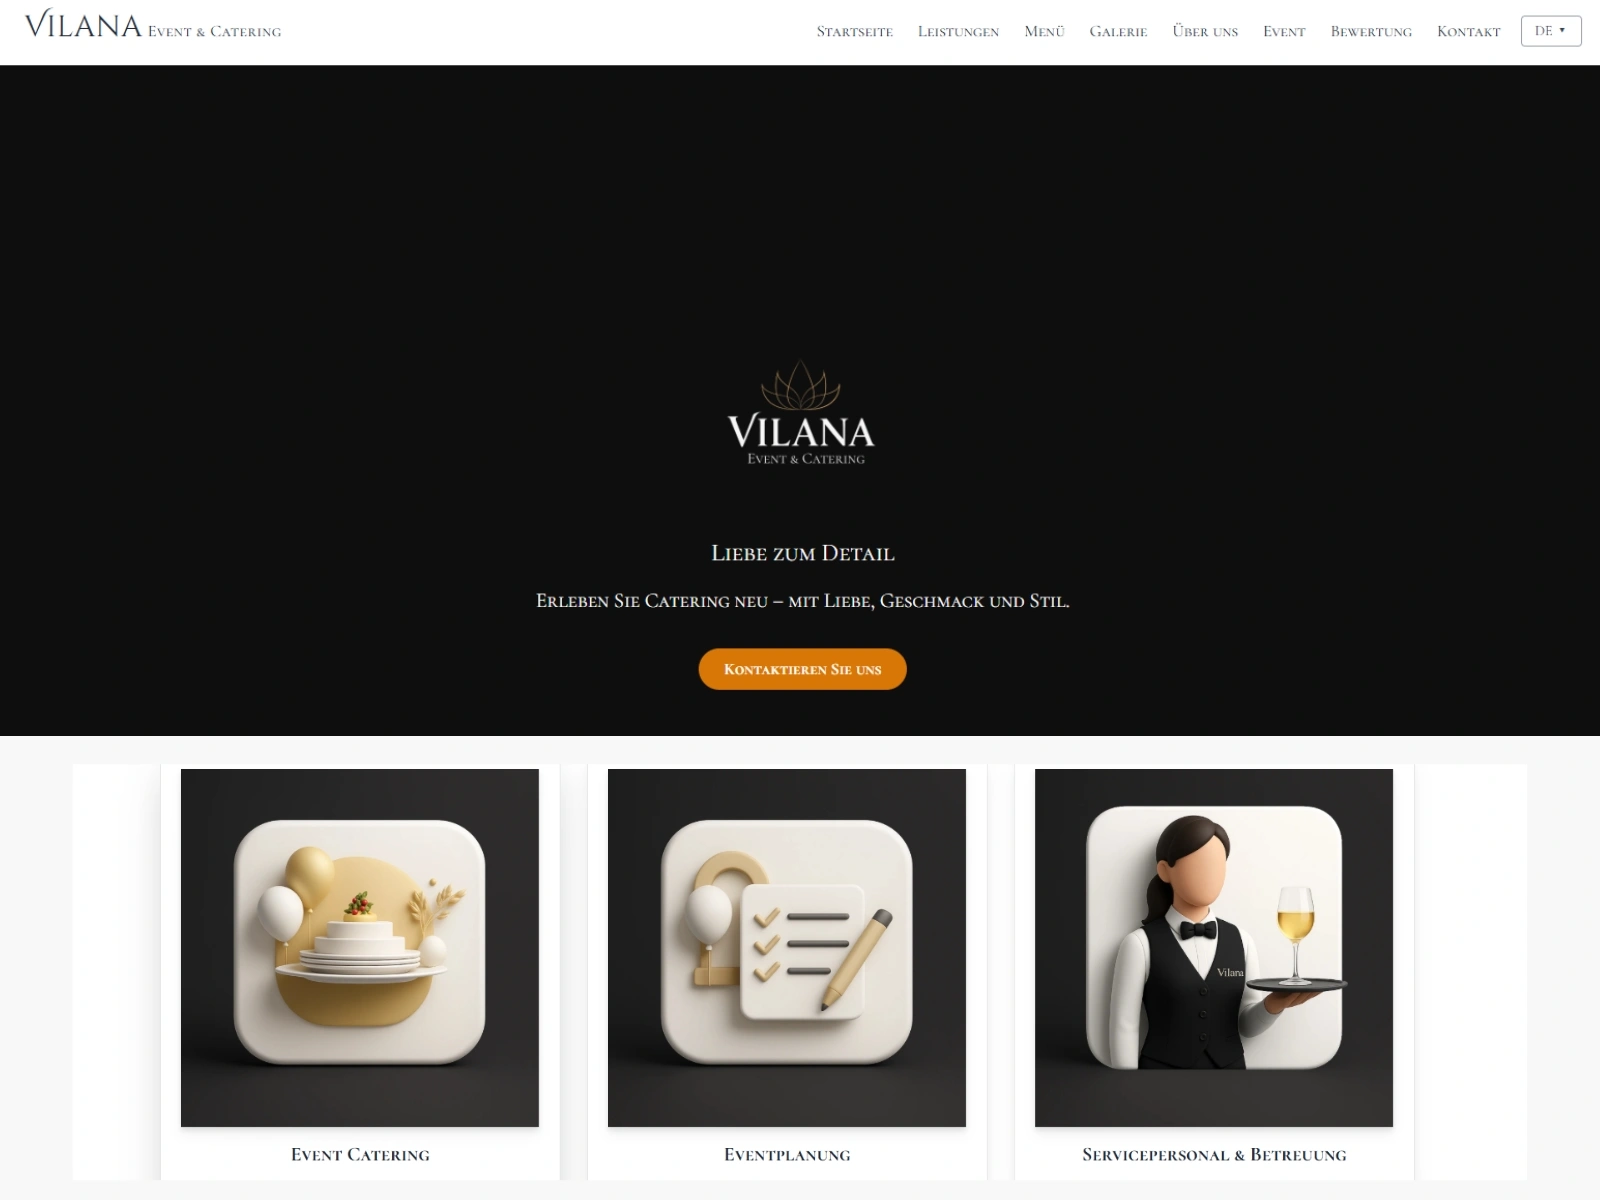
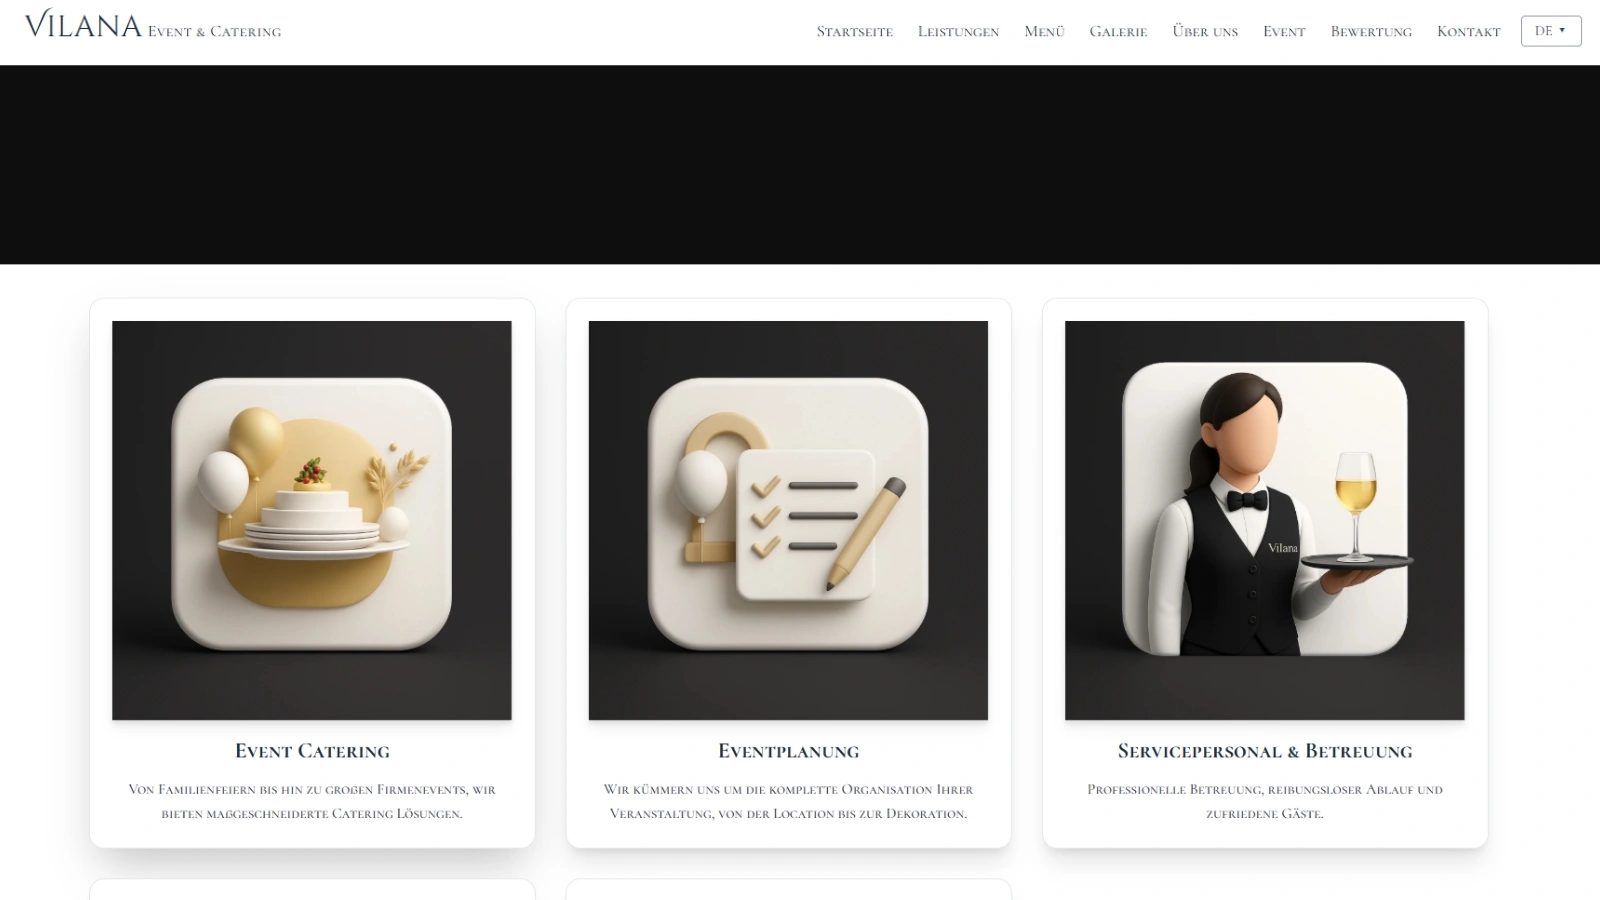
fix leistungen

diff --git a/styles.css b/styles.css
@@ -76,6 +76,124 @@ body {
         0 18px 55px rgba(15, 23, 42, 0.10),
         0 1px 0 rgba(255, 255, 255, 0.70) inset;
 }
+/* =========================================================
+  HERO Panel (Leistungen) — Dark text area LEFT, image ORIGINAL right
+  Goal: text readable on left, image NOT darkened on right
+========================================================= */
+
+.hero-panel{
+  position: relative;
+  isolation: isolate;
+  overflow: hidden;
+
+  border-radius: calc(var(--radius) + 14px);
+  border: 1px solid rgba(255,255,255,.08);
+  box-shadow: 0 26px 80px rgba(2,6,23,.22);
+
+  background: #050913;
+  min-height: 420px;
+}
+
+/* Background image (original look) */
+.hero-panel__bg{
+  position: absolute;
+  inset: 0;
+  z-index: 0;
+
+  width: 100%;
+  height: 100%;
+
+  object-fit: cover;
+  object-position: right center;
+
+  opacity: 1;          /* IMPORTANT: no dimming */
+  filter: none;        /* IMPORTANT: no dimming */
+  pointer-events: none;
+}
+
+/* Overlay ONLY on the LEFT (right side stays original) */
+.hero-panel::before{
+  content:"";
+  position:absolute;
+  inset:0;
+  z-index:1;
+  pointer-events:none;
+
+  /* strong left -> transparent right */
+  background: linear-gradient(90deg,
+    rgba(2,6,23,.86) 0%,
+    rgba(2,6,23,.76) 36%,
+    rgba(2,6,23,.52) 56%,
+    rgba(2,6,23,.22) 70%,
+    rgba(2,6,23,0) 82%);
+}
+
+/* NO global vignette here (it would darken the image) */
+/* .hero-panel::after intentionally removed */
+
+/* Content above overlay */
+.hero-panel__content{
+  position: relative;
+  z-index: 2;
+  padding: 56px 44px;
+
+  color: rgba(248,250,252,.92);
+}
+
+.hero-panel__content .h-display{
+  color: rgba(248,250,252,.98);
+}
+
+.hero-panel__content p{
+  color: rgba(248,250,252,.76);
+}
+
+/* Badge in dark hero */
+.hero-panel__content .hero-badge{
+  background: rgba(255,255,255,.12);
+  border: 1px solid rgba(255,255,255,.18);
+  box-shadow: 0 10px 28px rgba(0,0,0,.22);
+  color: rgba(255,255,255,.88);
+}
+.hero-panel__content .hero-badge-dot{
+  background: rgba(96,165,250,.95);
+  box-shadow: 0 0 0 3px rgba(96,165,250,.18);
+}
+
+/* Ghost button in dark hero */
+.hero-panel__content .btn-ghost{
+  background: rgba(255,255,255,.12);
+  border-color: rgba(255,255,255,.18);
+  color: rgba(255,255,255,.92);
+}
+.hero-panel__content .btn-ghost:hover{
+  background: rgba(255,255,255,.16);
+  border-color: rgba(255,255,255,.22);
+}
+
+/* Mobile */
+@media (max-width: 640px){
+  .hero-panel{
+    border-radius: calc(var(--radius) + 10px);
+    min-height: 520px;
+  }
+
+  /* On mobile we need readability across full width */
+  .hero-panel::before{
+    background: linear-gradient(180deg,
+      rgba(2,6,23,.86) 0%,
+      rgba(2,6,23,.78) 55%,
+      rgba(2,6,23,.55) 100%);
+  }
+
+  .hero-panel__content{
+    padding: 36px 22px;
+  }
+
+  .hero-panel__bg{
+    object-position: 78% 50%;
+  }
+}
 
 /* =========================================================
   NAV
@@ -507,20 +625,36 @@ button:focus-visible {
     border: 0;
 }
 /* =========================================================
-    LEISTUNGEN: Höhe der Bildfläche auf Desktop erhöhen
-    Damit bleibt mehr Motiv sichtbar (unten "verschwindet" nicht)
+   LEISTUNGEN: Media-Image Control (Cover + Focus)
+   Ziel: Motiv bleibt vollflächig, aber sinnvoll gecroppt
    ========================================================= */
 
+/* Desktop: больше высота, чуть ниже фокус (чтобы низ не "исчезал") */
 @media (min-width: 1024px) {
-    .leist-card .media-raw>img {
-        height: 560px;
-        /* было 384px (h-96), теперь выше */
-        object-fit: cover;
-        object-position: 50% 55%;
-        /* лёгкий Fokus вниз, чтобы der "Nis" bleibt */
-    }
+  .leist-card .media-raw > img {
+    height: 560px;             /* было ~384px */
+    width: 100%;
+    object-fit: cover;
+    object-position: 50% 55%;  /* чуть вниз: показывает больше нижней части */
+  }
 }
-/* =========================================================
-    LEISTUNGEN: Bild-Fokus auf Tablet etwas höher setzen
-    Ziel: Motiv bleibt "cover" (vollflächig), aber nicht zu tief gecroppt
-   ========================================================= */
+
+/* Tablet: обычно кроп ощущается сильнее -> поднимаем фокус немного вверх */
+@media (min-width: 640px) and (max-width: 1023.98px) {
+  .leist-card .media-raw > img {
+    height: 460px;
+    width: 100%;
+    object-fit: cover;
+    object-position: 50% 45%;  /* чуть вверх: меньше "провала" вниз */
+  }
+}
+
+/* Mobile: меньше высота, фокус ближе к центру (самый стабильный вариант) */
+@media (max-width: 639.98px) {
+  .leist-card .media-raw > img {
+    height: 320px;
+    width: 100%;
+    object-fit: cover;
+    object-position: 50% 50%;
+  }
+}

diff --git a/leistungen.html b/leistungen.html
@@ -72,30 +72,46 @@
         </div>
     </nav>
 
-    <!-- =========================
-        HERO
-    ========================= -->
-    <header class="py-14 sm:py-16">
-        <div class="mx-auto max-w-7xl px-4 sm:px-6 lg:px-8">
-            <div class="max-w-3xl">
-                <div class="badge">Leistungen</div>
+<!-- =========================
+  HERO (Panel: image original + light text area left)
+========================= -->
+<header class="py-14 sm:py-16">
+    <div class="mx-auto max-w-7xl px-4 sm:px-6 lg:px-8">
 
-                <h1 class="h-display mt-4 text-4xl sm:text-5xl font-semibold tracking-tight text-balance">
-                    Struktur, Design, Technik — als System.
-                </h1>
+        <section id="leistungenHeroPanel" class="hero-panel hero-panel--lightleft">
+            <!-- Background image (original) -->
+            <img src="./images/hero-pages.webp" alt="" aria-hidden="true" class="hero-panel__bg" loading="eager"
+                fetchpriority="high" decoding="async" />
 
-                <p class="mt-4 text-[color:var(--muted)] leading-relaxed">
-                    Premium Websites, digitale Prozesse und Sichtbarkeit. Klar aufgebaut, sauber umgesetzt,
-                    damit Besucher verstehen, vertrauen und anfragen.
-                </p>
+            <!-- Content -->
+            <div class="hero-panel__content">
+                <div class="max-w-3xl">
+                    <div class="hero-badge">
+                        <span class="hero-badge-dot"></span>
+                        Leistungen
+                    </div>
 
-                <div class="mt-7 flex flex-wrap gap-3">
-                    <a href="#pakete" class="btn-primary">Pakete ansehen</a>
-                    <a href="./kontakt.html" class="btn-ghost">Projekt anfragen</a>
+                    <h1 class="h-display mt-4 text-4xl sm:text-5xl font-semibold tracking-tight text-balance">
+                        Struktur, Design, Technik — als System.
+                    </h1>
+
+                    <p class="mt-4 leading-relaxed text-[color:var(--muted)]">
+                        Premium Websites, digitale Prozesse und Sichtbarkeit. Klar aufgebaut, sauber umgesetzt,
+                        <br>damit Besucher verstehen, vertrauen und anfragen.
+                    </p>
+
+                    <div class="mt-7 flex flex-wrap gap-3">
+                        <a href="#pakete" class="btn-primary">Pakete ansehen</a>
+                        <a href="./index.html#kontakt" class="btn-ghost">Projekt anfragen</a>
+                    </div>
                 </div>
             </div>
-        </div>
-    </header>
+        </section>
+
+    </div>
+</header>
+
+
 
     <!-- =========================================================
         01) Webdesign  (1–3–2)
